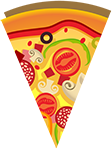
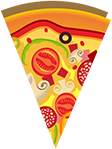
nueva funcionalidad de pizzas y solucionados algunos bugs

diff --git a/lib/animaciones.js b/lib/animaciones.js
@@ -107,11 +107,37 @@ setInterval(function(){
     angle+=3;
      $("#girar").rotate(angle);}
 },20);
-$('#girar').animate({'margin-left':'326px'}, 2900);
+$('#girar').animate({'margin-left':'326px'}, 2900, function(){
+    $('.pizza').attr("src", "img/pizza_11.png");
+//    $('.pizza_2').attr("src", "img/pizza_22.png");
+        setTimeout(function(){
+            $('.pizza').attr("src", "img/pizza_12.png");
+            $('.pizza_2').attr("src", "img/pizza_22.png");
+        },1000);
+        setTimeout (function(){
+            $('.pizza').attr("src", "img/pizza_13.png");
+            $('.pizza_2').attr("src", "img/pizza_23.png");
+        }, 2000);    
+        setTimeout (function(){
+            $('.pizza').attr("src", "img/pizza_14.png");
+            $('.pizza_2').attr("src", "img/pizza_24.png");
+        }, 3000);
+        setTimeout (function(){
+            $('.pizza').attr("src", "img/pizza_t.png");
+            $('.pizza_2').attr("src", "img/pizza_25.png");
+        }, 4000);
+        setTimeout (function(){
+            $('.pizza_2').attr("src", "img/pizza_t.png");
+        }, 5000);
+        setTimeout (function(){
+            $('.pizza').attr("src", "img/pizza.png");
+            $('.pizza_2').attr("src", "img/pizza_2.png");
+        }, 6500);
+});
 }
 /*++++++++++++++++++++++++++++++++++++TERCERA ANIMACION++++++++++++++++++++++++++*/
 /*+++++++++++++++++++++++++++++++++++++++++++++++++++++++++++++++++++++++++++++++*/
 /*//////////////////COLCOCACION/////////////////////////*/
 function interaccion_4() {
-    $('.lavadoras').animate({'left':'2px'});
+
 }

diff --git a/lib/colocacion.js b/lib/colocacion.js
@@ -99,7 +99,7 @@ jQuery('#acdc_3').onScrollBeyond(
         $('body, html').stop(true, true).animate({
                     scrollTop: $('#cartel_4').offset().top//vamos al ancla para ver la animacion
                  },1000);
-        control=4; 
+        control=4; interaccion_4();
     }
 }
 );

diff --git a/css/estilos.css b/css/estilos.css
@@ -118,6 +118,11 @@ left: -1000px;
 .pizza:first-child{
     margin-left: 0px;
 }
+.pizza_2{
+    margin-bottom: 30px;
+    margin-top: 30px;
+    margin-left: -1px;
+}
 .circulo_blanco{
 }
 .titulo_pizza{

diff --git a/cartel_3.php b/cartel_3.php
@@ -14,11 +14,10 @@
             </div>
             <?php for($x=1; $x<=27; $x++){
                 if ($x%2==0){
-                    echo '<img src="img/pizza_2.png" class="pizza" alt="">';
+                    echo '<img src="img/pizza_2.png" class="pizza_2" id=""alt="">';
                 }else{
                     echo '<img src="img/pizza.png" class="pizza" alt="">';
                 }
-
             }
             ?>
         </div>

diff --git a/prueba.php b/prueba.php
@@ -1,0 +1,11 @@
+<table style="overflow: auto;">
+    <tr>
+        <td style="width: 200px; position: fixed;">equipo1-equipo2</td>
+        <td style="width: 2000px">1</td>
+        <td style="width: 2000px">1</td>
+        <td style="width: 2000px">1</td>
+        <td style="width: 2000px">1</td><td style="width: 2000px">1</td><td style="width: 2000px">1</td>
+        
+        
+    </tr>
+</table>
